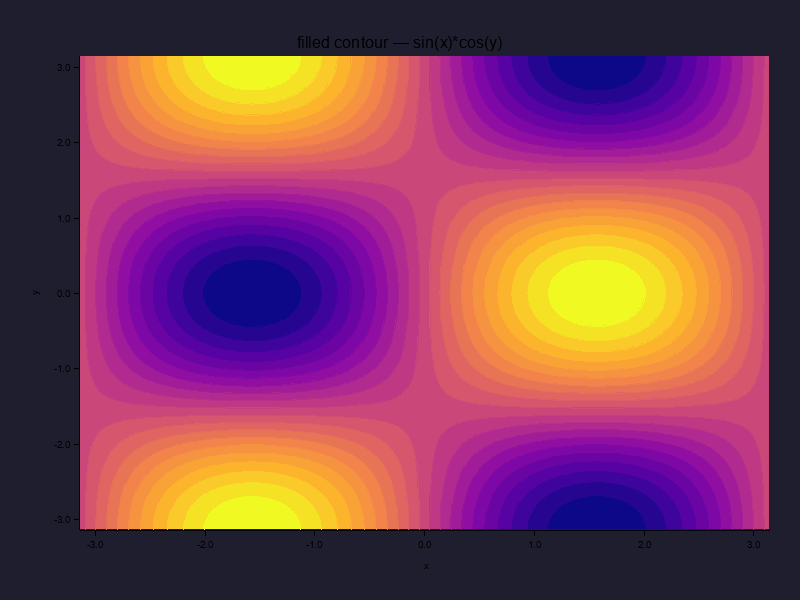
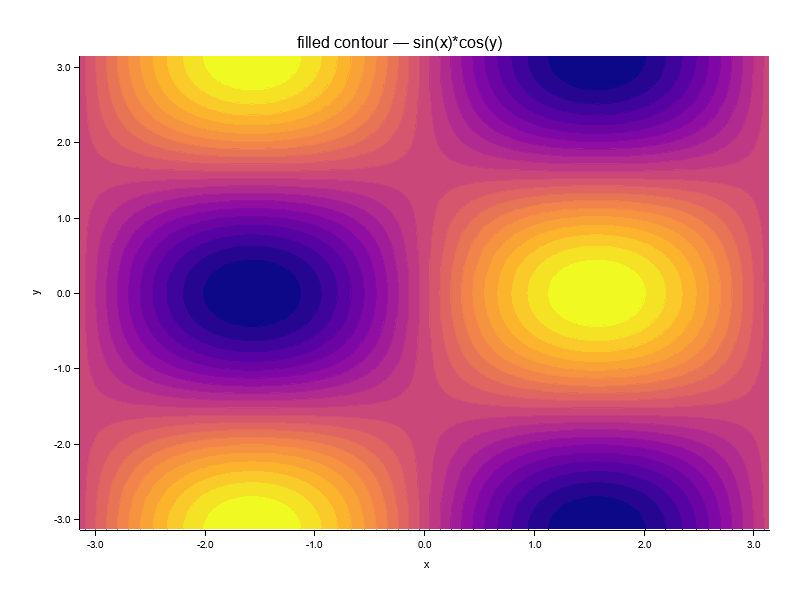
showcase example

diff --git a/crates/ccalc-plot/src/contour.rs b/crates/ccalc-plot/src/contour.rs
@@ -13,6 +13,8 @@ use plotters::series::LineSeries;
 use crate::FigureState;
 #[cfg(any(feature = "plot", feature = "plot-svg"))]
 use crate::colormap::{ColormapSpec, apply_colormap_spec};
+#[cfg(feature = "plot-svg")]
+use crate::file::resolve_colors;
 
 // ── Level computation ──────────────────────────────────────────────────────
 
@@ -270,8 +272,8 @@ fn draw_contour<DB: DrawingBackend>(
 where
     DB::ErrorType: std::fmt::Display,
 {
-    let (r, g, b) = state.effective_bg_rgb();
-    root.fill(&RGBColor(r, g, b)).map_err(|e| e.to_string())?;
+    let (bg_c, text_c, axis_c, _, _) = resolve_colors(state);
+    root.fill(&bg_c).map_err(|e| e.to_string())?;
 
     if nrows == 0 || ncols == 0 || levels.is_empty() {
         return root.present().map_err(|e| e.to_string());
@@ -294,7 +296,7 @@ where
     let n_levels = levels.len();
 
     let mut chart = ChartBuilder::on(&root)
-        .caption(title, ("sans-serif", 20))
+        .caption(title, ("sans-serif", 20).into_font().color(&text_c))
         .margin(30)
         .x_label_area_size(40)
         .y_label_area_size(50)
@@ -304,6 +306,9 @@ where
     if state.grid {
         chart
             .configure_mesh()
+            .axis_style(ShapeStyle::from(&axis_c))
+            .axis_desc_style(("sans-serif", 14).into_font().color(&text_c))
+            .label_style(("sans-serif", 12).into_font().color(&text_c))
             .x_desc(xlabel)
             .y_desc(ylabel)
             .draw()
@@ -311,6 +316,9 @@ where
     } else {
         chart
             .configure_mesh()
+            .axis_style(ShapeStyle::from(&axis_c))
+            .axis_desc_style(("sans-serif", 14).into_font().color(&text_c))
+            .label_style(("sans-serif", 12).into_font().color(&text_c))
             .x_desc(xlabel)
             .y_desc(ylabel)
             .disable_mesh()

diff --git a/crates/ccalc-plot/src/file.rs b/crates/ccalc-plot/src/file.rs
@@ -510,7 +510,7 @@ fn sc_to_rgb(c: StyleColor) -> RGBColor {
 /// Resolves all five theme colours for a state in one call.
 ///
 /// Returns `(bg, text, axis, grid_bold, grid_light)`.
-fn resolve_colors(state: &FigureState) -> (RGBColor, RGBColor, RGBColor, RGBColor, RGBColor) {
+pub(crate) fn resolve_colors(state: &FigureState) -> (RGBColor, RGBColor, RGBColor, RGBColor, RGBColor) {
     let theme = resolve_theme(state);
     let bg = effective_bg(state);
     let text = sc_to_rgb(theme.text);
